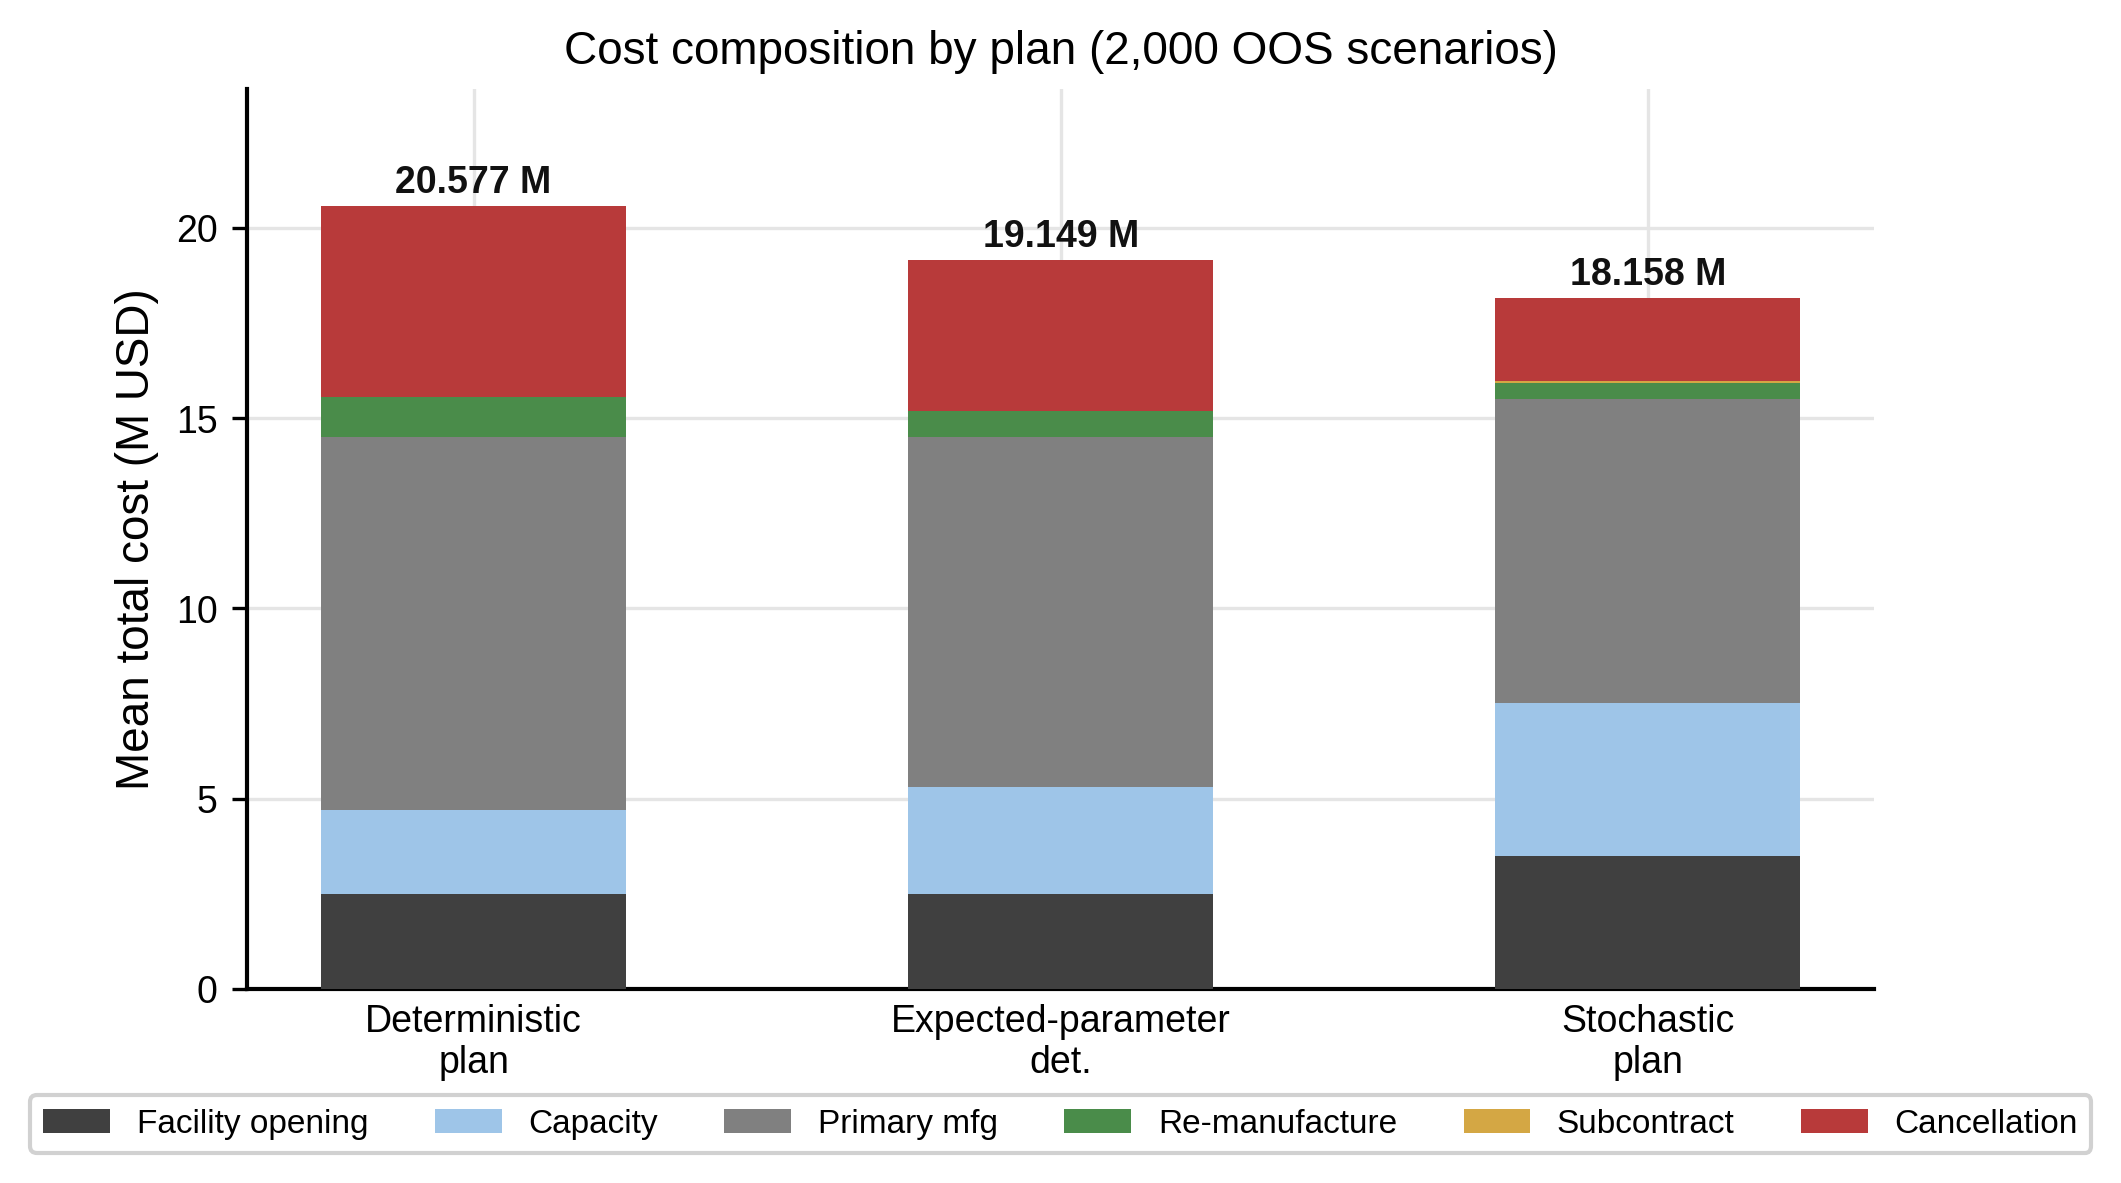
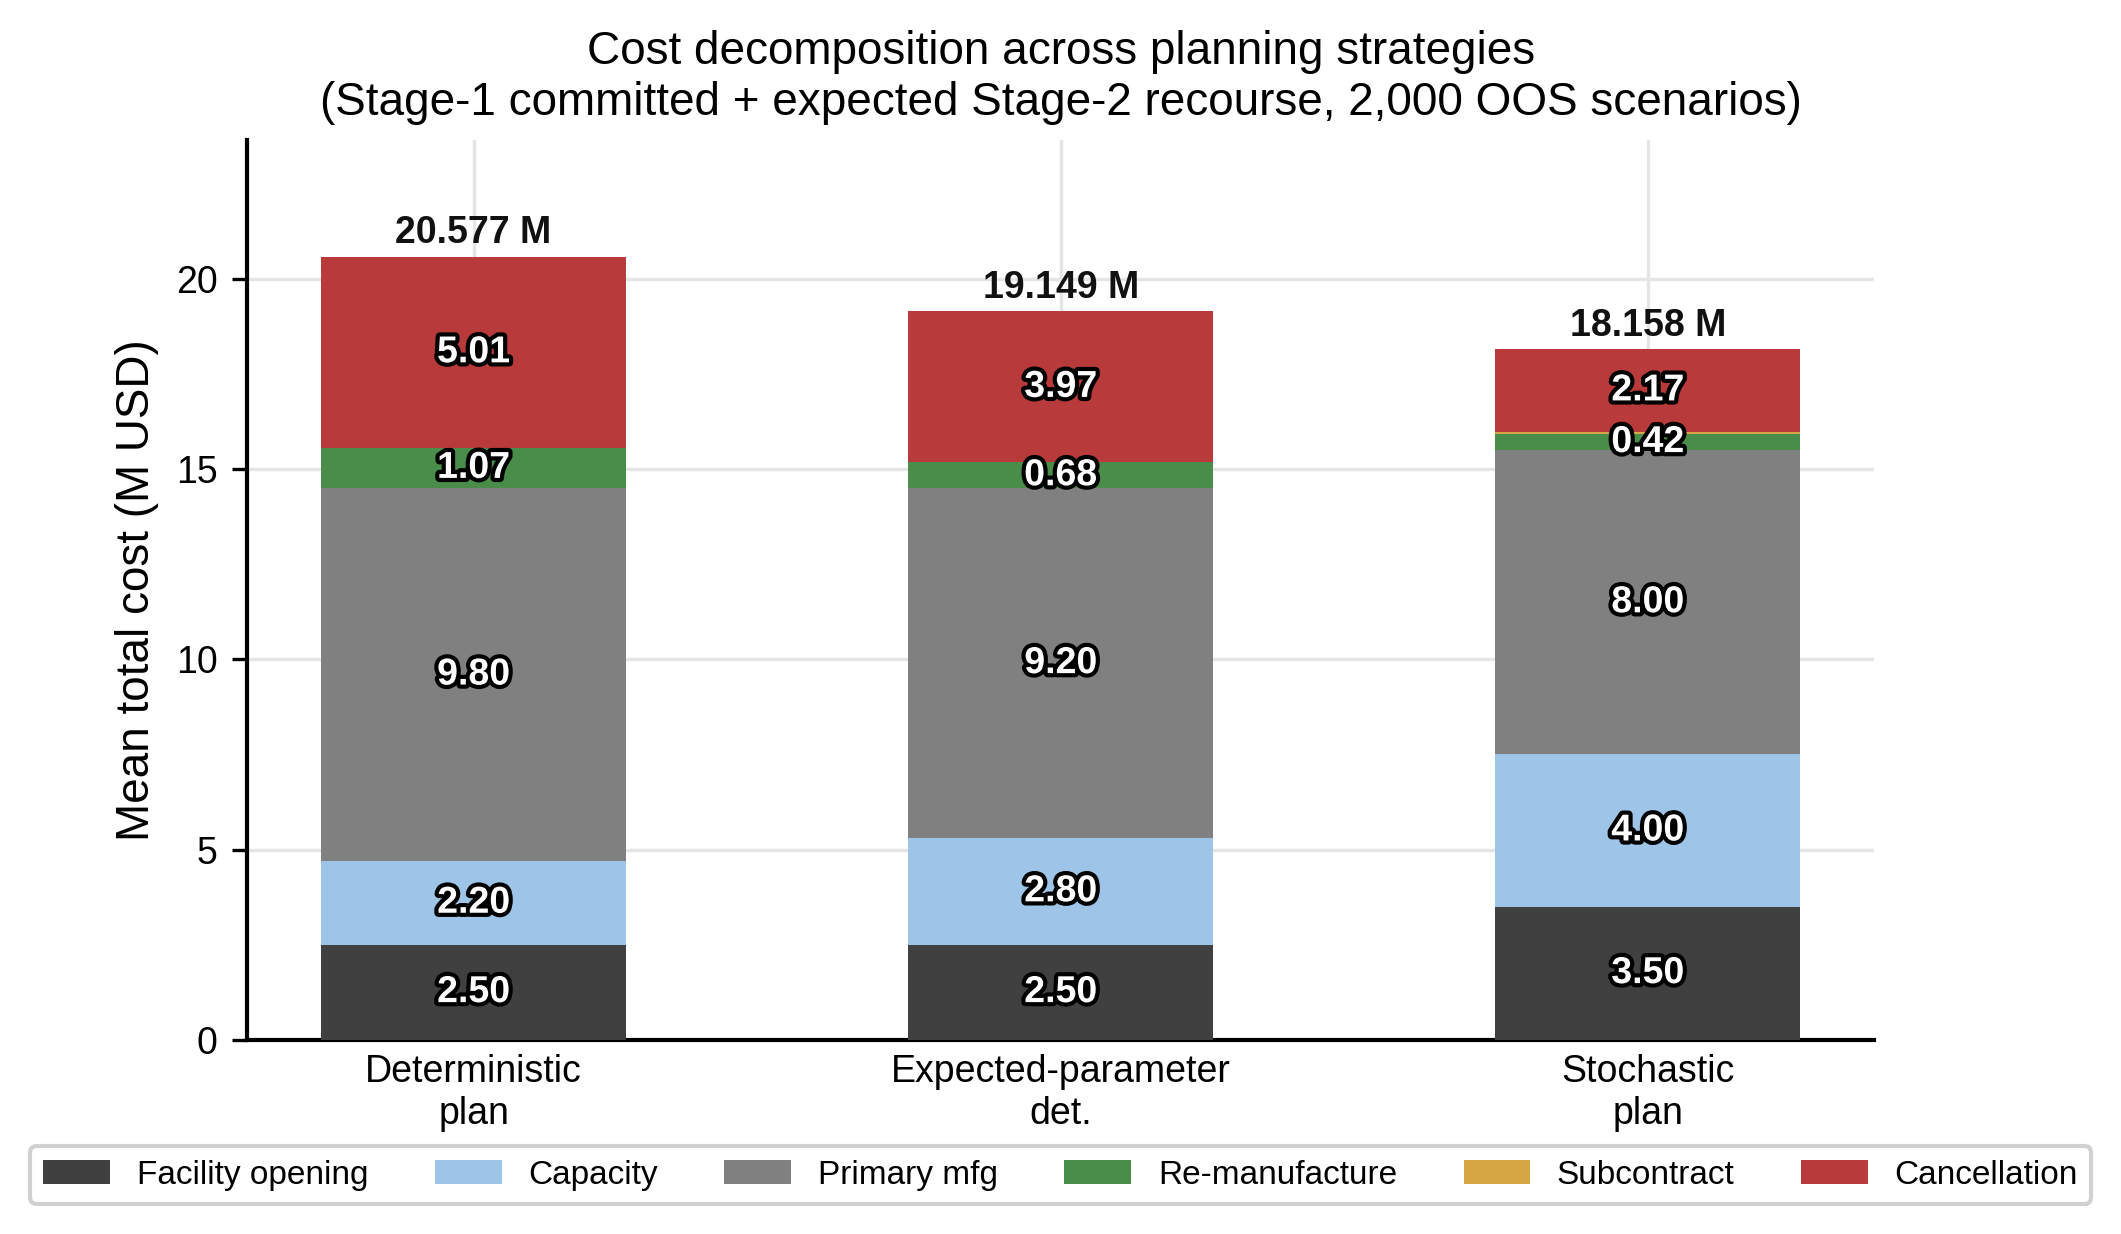
refactor: stacked-bar Stage-1 palette + legend position + Expected-parameter rename
Fix 1: Replace three-shades-of-blue Stage-1 segments with donut-consistent
palette (#404040 / COLORS["stage1"] / #808080 for facility/capacity/mfg).
Fix 2: Legend moved below figure (bbox_to_anchor=(0.5,-0.10), ncol=6) so it
no longer overlaps the SP total annotation.
Fix 3: x-tick label updated to "Expected-parameter det." throughout.
Fix 4: Per-segment value labels (9pt bold white, black stroke outline,
threshold 0.40 M USD) centered inside each stack section.
Title updated to match spec.

Claude-Session: https://claude.ai/code/session_01LDiqGYKEuEMrWC1W1X4cbu

diff --git a/figures/generate_cost_decomposition.py b/figures/generate_cost_decomposition.py
@@ -40,6 +40,7 @@ import matplotlib
 matplotlib.use("Agg")
 import matplotlib.pyplot as plt
 import matplotlib.patches as mpatches
+import matplotlib.patheffects as pe
 
 setup_style()
 
@@ -226,12 +227,24 @@ def generate_bar_figure() -> None:
     fig.subplots_adjust(bottom=0.28)
 
     bottoms = [0.0] * len(PLAN_KEYS)
-    bars_list = []
+    MIN_LABEL = 0.40   # M USD — skip segments smaller than this
     for comp_idx, (comp_label, comp_color) in enumerate(zip(COMP_LABELS, COMP_COLORS)):
         vals = [data[k][comp_idx] for k in PLAN_KEYS]
-        bars = ax.bar(x, vals, width, bottom=bottoms,
-                      color=comp_color, zorder=3, label=comp_label)
-        bars_list.append(bars)
+        ax.bar(x, vals, width, bottom=bottoms,
+               color=comp_color, zorder=3, label=comp_label)
+        # Per-segment value labels
+        for xi, (val, bot) in enumerate(zip(vals, bottoms)):
+            if val >= MIN_LABEL:
+                ax.text(
+                    xi, bot + val / 2, f"{val:.2f}",
+                    ha="center", va="center",
+                    fontsize=9, fontweight="bold", color="white",
+                    path_effects=[
+                        pe.Stroke(linewidth=2, foreground="black"),
+                        pe.Normal(),
+                    ],
+                    zorder=5,
+                )
         bottoms = [b + v for b, v in zip(bottoms, vals)]
 
     # Total cost annotation above each bar
@@ -244,7 +257,11 @@ def generate_bar_figure() -> None:
     ax.set_xticklabels(x_labels, fontsize=9)
     ax.set_ylabel("Mean total cost (M USD)")
     ax.set_ylim(0, max(bottoms) * 1.15)
-    ax.set_title("Cost composition by plan (2,000 OOS scenarios)", fontsize=11)
+    ax.set_title(
+        "Cost decomposition across planning strategies\n"
+        "(Stage-1 committed + expected Stage-2 recourse, 2,000 OOS scenarios)",
+        fontsize=11,
+    )
     ax.tick_params(axis="x", length=0)
 
     ax.legend(loc="upper center", bbox_to_anchor=(0.5, -0.10),

diff --git a/figures/README.md b/figures/README.md
@@ -78,5 +78,7 @@ Results across patient cohort sizes. Costs in M USD. Tier-H rates shown as Naive
  `results/out_of_sample_results.json` + `results/out_of_sample_recourse.npz` |
 | `figure16_p_m_sensitivity.png` | Sensitivity of the Value of Stochastic Solution to perturbations of the manufacturing success-rate calibration. The horizontal axis applies a deviation multiplier that widens or narrows the gap between each facility's success rate and the across-facility mean. The vertical axis applies an additive shift to all four facility success rates simultaneously (e.g., +0.05 means every facility's success rate is 5 percentage points higher than its calibrated value). The calibrated point ★ corresponds to the central case-study value. (a) VSS against the Expected-parameter deterministic plan; (b) VSS against the Deterministic plan. The 4% contribution-viability threshold in (a) marks the boundary below which the structural-recourse advantage over cost-anticipation becomes marginal — visible at low deviation multipliers, where facilities have similar yields and tier-aware facility selection has less to differentiate. | `results/sensitivity_p_m_results.json` |
 | `figure15_beta_sensitivity.png` | Sensitivity of the contribution claim to the tier-H eligibility parameter β_H. (a) The Value of Stochastic Solution remains positive across the calibrated range, both against the naive deterministic baseline and against the expected-cost deterministic baseline that anticipates expected failure cost; at β_H ≥ 0.70 the VSS vs ECD narrows below 4%, reflecting that when re-collection is almost always feasible the ECD approximation captures most of the structural benefit. (b) The stochastic plan maintains the lowest tier-H cancellation rate across the full β_H range; the deterministic plans' protection improves with higher β_H but never matches the SP. (c) The SP's facility selection adapts to β_H — across β_H ∈ {0.40, 0.55, 0.70} the SP consistently chooses m₀+m₂ (highest-yield facility for tier-H patients); at β_H = 0.85 it switches to m₀+m₃, reflecting that when tier-H re-collection feasibility is high the cost trade-off shifts. Vertical dashed line marks the calibrated central value β_H = 0.55. | `results/sensitivity_beta_results.json` |
+ `results/out_of_sample_results.json` + `results/out_of_sample_recourse.npz` |
+ `results/out_of_sample_results.json` + `results/out_of_sample_recourse.npz` |
 | `figure14_cost_decomposition.png` | Three donut charts decomposing mean total cost (2,000 OOS scenarios) into six components per plan: facility opening, capacity, primary manufacturing (Stage 1 committed), and re-manufacture, subcontract, cancellation (expected Stage 2 recourse). Each donut's center shows the plan total in M USD. Segment labels appear outside the ring for components >= 3%. | `results/out_of_sample_results.json` + `results/out_of_sample_recourse.npz` |
 | `figure14_cost_decomposition_bar.png` | Stacked bar chart companion to the donut chart, showing absolute M USD values for each of the six cost components across the three planning strategies. Stage-1 components (facility opening, capacity, primary mfg) appear in the bottom portion; Stage-2 recourse components (re-manufacture, subcontract, cancellation) appear in the top portion. Total cost is annotated above each bar. | `results/out_of_sample_results.json` + `results/out_of_sample_recourse.npz` |
